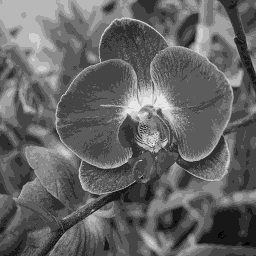
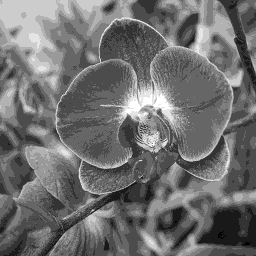
small changes

Changed region(s): [[0.4688, 0.375, 0.6562, 0.4375]]

diff --git a/w17_final/image_to_pixel_data.py b/w17_final/image_to_pixel_data.py
@@ -19,12 +19,12 @@ stop_values = list(stops.values())
 stop_keys = list(stops.keys())
 
 def nearest_stop(value):
-    """Return the key of the stop closest to the given pixel value."""
+#returns the key of the stop closest to the given pixel value
     closest_index = min(range(len(stop_values)), key=lambda i: abs(stop_values[i] - value))
     return stop_keys[closest_index]
 
 def image_to_pixel_data(image_path, output_file="pixel_data.txt"):
-    """Convert image to pixel data and save to a text file."""
+#converts image to pixel data and save to a text file
     img = Image.open(image_path).convert('L')  # L = grayscale
     width, height = img.size
 
@@ -37,5 +37,5 @@ def image_to_pixel_data(image_path, output_file="pixel_data.txt"):
 
     print(f"Pixel data saved to {output_file}.")
 
-#imported image has to be 256x256
+#imported image has to be 256x256 because Assembled_Camera.py needs a 256x256 image. any image larger will create error.
 image_to_pixel_data("Orchid_256.png")

diff --git a/w17_final/Assembled_Camera.py b/w17_final/Assembled_Camera.py
@@ -1,25 +1,25 @@
 #Mock Camera in Python
 import time #for shutter timing
-from PIL import Image #allows us to create and manipulate images
+from PIL import Image #allows us to create images in python
 
 #image dimensions for PIL
+#in theory this could be expanded to whatever size needed, image imported for use in image_to_pixel_data.py has to match in width and height to this string
 width, height = 256, 256 
 
 #defines dynamic range stops 0-9, A, B
 #this maps discrete stops to 8-bit greyscale values (0=black, 255=white)
 stops = { 
     '0': 0,
-    '1': 23,
-    '2': 46,
-    '3': 69,
-    '4': 92,
-    '5': 115,
-    '6': 138,
-    '7': 161,
-    '8': 184,
-    '9': 207,
-    'A': 230,
-    'B': 255,
+    '1': 25,
+    '2': 51,
+    '3': 76,
+    '4': 102,
+    '5': 127,
+    '6': 153,
+    '7': 178,
+    '8': 204,
+    '9': 229,
+    'A': 255,
 }
 
 #function to simulate mechanical shutter
